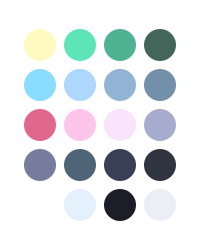
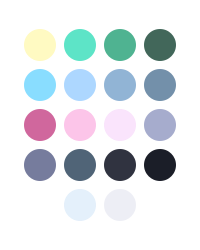
fix colors

Changed region(s): [[0.51, 0.756, 0.69, 0.896]]

diff --git a/src/theme.js b/src/theme.js
@@ -1,7 +1,7 @@
 const italics = {
   colors: {
     brightYellow: '#fffac2',
-    brightMint: '#5DE4B7',
+    brightMint: '#5DE4C7',
     lowerMint: '#4fb391',
     blueishGreen: '#42675A',
 
@@ -10,19 +10,18 @@ const italics = {
     desaturatedBlue: '#91B4D5',
     bluishGrayBrighter: '#7390AA',
 
-    hotRed: '#e0678d',
+    hotRed: '#d0679d',
     pink: '#FCC5E9',
     brighterPink: '#FAE4FC',
     gray: '#a6accd',
 
     darkerGray: '#767c9d',
     bluishGray: '#506477',
-    lowerHighlight: '#3a3f58',
     focus: '#303340',
-
-    white: '#ffffff',    
-    offWhite: '#e4f0fb',
     bg: '#1b1e28',
+
+    white: '#ffffff',
+    offWhite: '#e4f0fb',
     selection: '#717cb420',
     transparent: '#00000000',
   },
@@ -64,7 +63,7 @@ function schema({ colors, styles }) {
       "editorHoverWidget.background": "${colors.bg}",
       "editorHoverWidget.border": "${colors.white}10",
       "editorIndentGuide.background": "${colors.focus}",
-      "editorLineNumber.foreground": "${colors.lowerHighlight}",
+      "editorLineNumber.foreground": "${colors.darkerGray}50",
       "editorLink.activeForeground": "${colors.lightBlue}",
       "editorSuggestWidget.background": "${colors.bg}",
       "editorSuggestWidget.border": "${colors.white}10",
@@ -105,7 +104,7 @@ function schema({ colors, styles }) {
       "editorInlineHint.foreground": "${colors.bg}",
       "editorLightBulb.foreground": "${colors.brightYellow}",
       "editorLightBulbAutoFix.foreground": "${colors.lightBlue}",
-      "editorLineNumber.activeForeground": "#c6c6c6",
+      "editorLineNumber.activeForeground": "${colors.gray}",
       "editorMarkerNavigation.background": "#2d2d30",
       "editorMarkerNavigationError.background": "${colors.hotRed}",
       "editorMarkerNavigationInfo.background": "${colors.lightBlue}",
@@ -144,16 +143,6 @@ function schema({ colors, styles }) {
       "inputValidation.errorForeground": "${colors.hotRed}",
       "inputValidation.infoBorder": "${colors.lowerBlue}",
       "inputValidation.warningBorder": "${colors.brightYellow}",
-      "list.activeSelectionBackground": "${colors.transparent}",
-      "list.activeSelectionForeground": "${colors.lightBlue}",
-      "list.errorForeground": "${colors.hotRed}",
-      "list.focusBackground": "${colors.transparent}",
-      "list.focusForeground": "${colors.gray}",
-      "list.highlightForeground": "${colors.lowerMint}",
-      "list.hoverBackground": "${colors.transparent}",
-      "list.hoverForeground": "${colors.offWhite}",
-      "list.inactiveSelectionBackground": "${colors.transparent}",
-      "list.inactiveSelectionForeground": "${colors.lightBlue}",
       "notifications.background": "${colors.bg}",
       "notifications.foreground": "${colors.offWhite}",
       "panel.border": "#00000030",
@@ -300,6 +289,16 @@ function schema({ colors, styles }) {
       "listFilterWidget.background": "${colors.focus}",
       "listFilterWidget.noMatchesOutline": "${colors.hotRed}",
       "listFilterWidget.outline": "${colors.transparent}",
+      "list.activeSelectionBackground": "${colors.transparent}",
+      "list.activeSelectionForeground": "${colors.lightBlue}",
+      "list.errorForeground": "${colors.hotRed}",
+      "list.focusBackground": "${colors.transparent}",
+      "list.focusForeground": "${colors.gray}",
+      "list.highlightForeground": "${colors.lowerMint}",
+      "list.hoverBackground": "${colors.transparent}",
+      "list.hoverForeground": "${colors.offWhite}",
+      "list.inactiveSelectionBackground": "${colors.transparent}",
+      "list.inactiveSelectionForeground": "${colors.lightBlue}",
       "menu.background": "${colors.bg}",
       "menu.foreground": "${colors.offWhite}",
       "menu.selectionBackground": "${colors.transparent}",
@@ -468,7 +467,7 @@ function schema({ colors, styles }) {
       "textBlockQuote.background": "${colors.bluishGrayBrighter}1a",
       "textBlockQuote.border": "${colors.lowerBlue}80",
       "textCodeBlock.background": "#00000050",
-      "textPreformat.foreground": "${colors.brightYellow}",
+      "textPreformat.foreground": "${colors.offWhite}",
       "textSeparator.foreground": "${colors.white}2e",
       "tree.tableColumnsBorder": "${colors.gray}20",
       "welcomePage.progress.background": "${colors.white}05",
@@ -480,7 +479,7 @@ function schema({ colors, styles }) {
       {
         "scope": ["comment", "punctuation.definition.comment"],
         "settings": {
-          "foreground": "${colors.bluishGray}",
+          "foreground": "${colors.darkerGray}60",
           "fontStyle": "${styles.fontStyle}"
         }
       },
@@ -492,7 +491,7 @@ function schema({ colors, styles }) {
         }
       },
       {
-        "scope": ["variable", "string constant.other.placeholder"],
+        "scope": ["variable", "string constant.other.placeholder", "meta.object-literal.key"],
         "settings": {
           "foreground": "${colors.lightBlue}"
         }
@@ -540,7 +539,10 @@ function schema({ colors, styles }) {
           "punctuation.definition.tag.end.html",
           "punctuation.section.embedded",
           "keyword.other.template",
-          "keyword.other.substitution"
+          "keyword.other.substitution",
+          "meta.objectliteral",
+          "meta.block",
+          "meta.brace",
         ],
         "settings": {
           "foreground": "${colors.offWhite}"
@@ -623,7 +625,8 @@ function schema({ colors, styles }) {
           "entity.other.inherited-class",
           "markup.heading",
           "markup.inserted.git_gutter",
-          "meta.group.braces.curly constant.other.object.key.js string.unquoted.label.js"
+          "meta.group.braces.curly constant.other.object.key.js string.unquoted.label.js",
+          "text.html.derivative",
         ],
         "settings": {
           "foreground": "${colors.brightMint}"
@@ -1122,7 +1125,7 @@ function svg({ colors }) {
     />`
   return `
   <svg width="200" height="250" viewBox="0 0 50 ${
-    Math.ceil((Object.keys(colors).length) / 4) * 12
+    Math.ceil(Object.keys(colors).length / 4) * 12
   }" xmlns="http://www.w3.org/2000/svg">
     ${Object.values(colors).map(circle).join('')}
   </svg>
